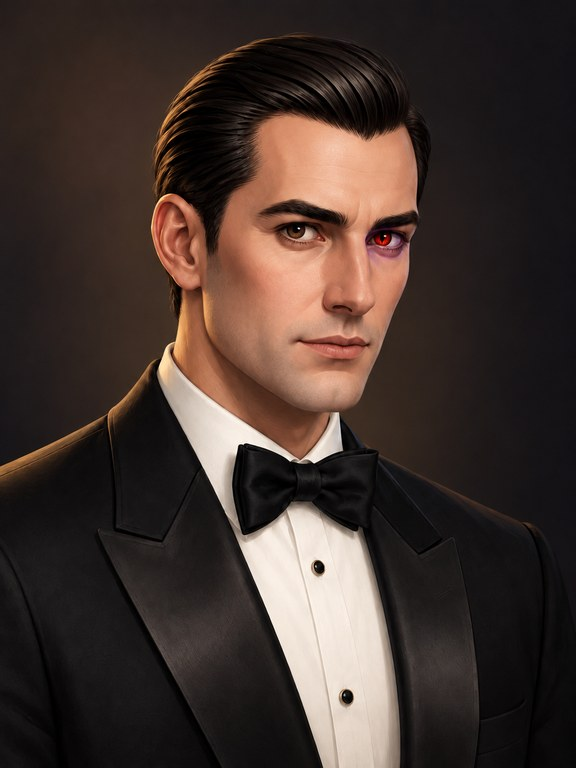
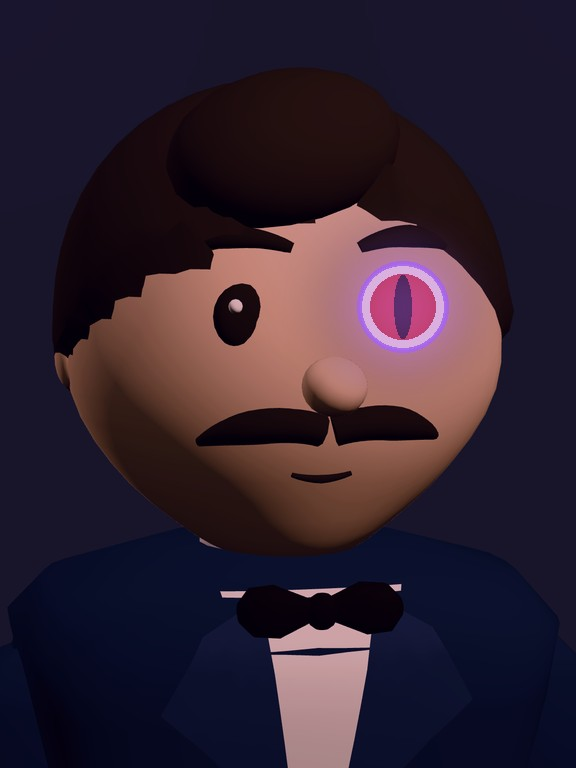
Grounded movement (cadence from distance + stride) and model-rendered portraits
- characterView.js: the in-place Walk clip's phase now advances by distance
  travelled / stride length (read from the GLB extras, fallback in
  characters.js) instead of a speed-scaled playback rate, so the planted foot
  moves backward at exactly the ground speed at any speed and never slides.
  Idle<->Walk cross-fade, teleport guard, debug() hook for tests.
- characters.js: modelHeight 1.66, strideLength fallback 1.083.
- tools/char-pipeline/walk_check.mjs: drives short/long walks, turns, an
  interrupted command and a doorway crossing from the real game and verifies
  stride in use, phase-vs-distance error (0), mesh-vs-mover offset (0), no
  console errors; records a webm and mid-walk frames.
- Portraits are now rendered FROM THE MODEL (portrait.mjs + portrait_post.py):
  victor.jpg (normal) and victor-possessed.jpg (cold violet wash, vignette,
  glowing slit-pupil eye placed at the projected eye position). Same file
  names, so PORTRAIT_ART is unchanged and the public strip stays neutral.
  The painted portraits and the victor-model.jpg option are removed.
All three test suites pass.

Claude-Session: https://claude.ai/code/session_01VRTSDtZcviqajcXFs5yVa3

diff --git a/src/render/characterView.js b/src/render/characterView.js
@@ -60,8 +60,12 @@ export function createCharacterView(playerDef, cfg, scene) {
   const body = new THREE.Group();
   group.add(body);
 
-  // Model-animation state (used only when useModel).
+  // Model-animation state (used only when useModel). The walk clip is IN PLACE; its phase is driven
+  // by the distance the mover actually travelled divided by the clip's stride (metres per cycle,
+  // measured in Blender and carried in the GLB's extras), so the planted foot moves backward at
+  // exactly the ground speed and never slides — whatever the speed.
   let mixer = null, idleAction = null, walkAction = null, walkW = 0, prevX = null, prevZ = null;
+  let strideLength = outfit.strideLength || 1.0, walkDuration = 1;
   // Placeholder limbs (used only when !useModel).
   let arms = [], legs = [], skirt = null;
 
@@ -75,6 +79,7 @@ export function createCharacterView(playerDef, cfg, scene) {
     gltfLoader.load(outfit.model, (gltf) => {
       const root = gltf.scene;
       root.traverse(o => {
+        if (o.userData && typeof o.userData.strideLength === 'number') strideLength = o.userData.strideLength;
         if (!o.isMesh) return;
         o.frustumCulled = false;
         const flatten = (src) => {
@@ -92,7 +97,11 @@ export function createCharacterView(playerDef, cfg, scene) {
       const idle = gltf.animations.find(a => /idle/i.test(a.name)) || gltf.animations[0];
       const walk = gltf.animations.find(a => /walk/i.test(a.name)) || gltf.animations[1];
       if (idle) { idleAction = mixer.clipAction(idle); idleAction.play(); idleAction.setEffectiveWeight(1); }
-      if (walk) { walkAction = mixer.clipAction(walk); walkAction.play(); walkAction.setEffectiveWeight(0); }
+      if (walk) {
+        walkAction = mixer.clipAction(walk); walkAction.play(); walkAction.setEffectiveWeight(0);
+        walkAction.timeScale = 0;              // phase is advanced by distance in update(), not by time
+        walkDuration = walk.duration;
+      }
     }, undefined, (e) => console.warn('character model load failed:', outfit.model, e && e.message));
   } else {
     buildPlaceholder();
@@ -216,6 +225,10 @@ export function createCharacterView(playerDef, cfg, scene) {
     group,
     def: playerDef,
     outfit,
+    // Test/debug hook: what the animation is doing (stride in use, walk weight, walk phase 0..1).
+    debug() {
+      return { model: useModel, loaded: !!mixer, strideLength, walkDuration, walkW, walkPhase: walkAction ? walkAction.time / walkDuration : 0 };
+    },
     setActive(v) {
       active = v && !dead;
       marker.visible = active;
@@ -255,15 +268,17 @@ export function createCharacterView(playerDef, cfg, scene) {
       group.rotation.y = mover.heading;
 
       if (useModel) {
-        // Stride matched to actual ground speed; smooth cross-fade Idle <-> Walk.
+        // Walk phase from distance travelled / stride; smooth cross-fade Idle <-> Walk. A jump larger
+        // than half a stride in one frame is a teleport (restart / room placement), not a step.
         if (prevX === null) { prevX = mover.x; prevZ = mover.z; }
-        const speed = Math.hypot(mover.x - prevX, mover.z - prevZ) / Math.max(dt, 1e-4);
+        let dist = Math.hypot(mover.x - prevX, mover.z - prevZ);
         prevX = mover.x; prevZ = mover.z;
+        if (dist > strideLength * 0.5) dist = 0;
         const target = mover.walking ? 1 : 0;
-        walkW += (target - walkW) * Math.min(1, dt * 9);
+        walkW += (target - walkW) * Math.min(1, dt * 10);
         if (walkAction) {
           walkAction.setEffectiveWeight(walkW);
-          walkAction.timeScale = THREE.MathUtils.clamp(speed / cfg.player.speed, 0.5, 1.7);
+          if (dist > 0) walkAction.time = (walkAction.time + (dist / strideLength) * walkDuration) % walkDuration;
         }
         if (idleAction) idleAction.setEffectiveWeight(1 - walkW);
         if (mixer) mixer.update(dt);

diff --git a/tools/char-pipeline/preview_glb.html b/tools/char-pipeline/preview_glb.html
@@ -71,6 +71,10 @@ new GLTFLoader().load(src, (gltf) => {
   else if (view === 'tq') { cam.position.set(d * 0.42, box.min.y + h * 0.82, d * 0.52); cam.lookAt(0, box.min.y + h * 0.72, 0); cam.fov = 26; }
   else if (view === 'side') { cam.position.set(d * 0.7, box.min.y + h * 0.55, 0.0); cam.lookAt(0, cy, 0); cam.fov = 30; }
   else if (view === 'back') { cam.position.set(0, box.min.y + h * 0.8, -d * 0.62); cam.lookAt(0, box.min.y + h * 0.74, 0); cam.fov = 26; }
+  else if (view === 'portrait') {   // tight bust for the interface portrait (charcoal plate)
+    scene.background = new THREE.Color('#171b27');
+    cam.position.set(0.05, box.min.y + h * 0.86, 2.15); cam.lookAt(0, box.min.y + h * 0.80, 0); cam.fov = 24;
+  }
   else if (view === 'gamescale') {  // true in-game size: pitch 56°, distance 13, fov 42 (config.js)
     const pitch = THREE.MathUtils.degToRad(56), D = 13;
     cam.position.set(0, Math.sin(pitch) * D, Math.cos(pitch) * D); cam.lookAt(0, 0, 0); cam.fov = 42;
@@ -82,8 +86,17 @@ new GLTFLoader().load(src, (gltf) => {
   mixer = new THREE.AnimationMixer(root);
   const clip = gltf.animations.find(a => a.name === clipName) || gltf.animations[0];
   if (clip) { action = mixer.clipAction(clip); action.play(); if (q.get('t') !== 'play') { mixer.setTime(t); } }
+  // Optional: project model-space points (x,y,z;x,y,z ...) to CSS pixels — used to place the
+  // "possessed" eye effect on the portrait exactly over the rendered eye.
+  const proj = [];
+  root.updateMatrixWorld(true); cam.updateMatrixWorld(true);   // project() needs current matrices
+  for (const p of (q.get('points') || '').split(';').filter(Boolean)) {
+    const [x, y, z] = p.split(',').map(Number);
+    const w = new THREE.Vector3(x, y, z); root.localToWorld(w); w.project(cam);
+    proj.push({ x: +((w.x + 1) / 2 * innerWidth).toFixed(1), y: +((1 - w.y) / 2 * innerHeight).toFixed(1) });
+  }
   window.__info = { ok: true, clips: gltf.animations.map(a => ({ name: a.name, duration: +a.duration.toFixed(3) })), meshes, tris: Math.round(tris),
-    height: +size.y.toFixed(3), width: +size.x.toFixed(3), depth: +size.z.toFixed(3), minY: +box.min.y.toFixed(3), materials: Object.fromEntries(mats) };
+    height: +size.y.toFixed(3), width: +size.x.toFixed(3), depth: +size.z.toFixed(3), minY: +box.min.y.toFixed(3), materials: Object.fromEntries(mats), points: proj };
 }, undefined, (err) => { window.__info = { ok: false, error: String(err && err.message || err) }; });
 
 renderer.setAnimationLoop(() => { if (mixer && q.get('t') === 'play') mixer.update(clock.getDelta()); renderer.render(scene, cam); });

diff --git a/src/data/characters.js b/src/data/characters.js
@@ -24,7 +24,9 @@ export const outfits = {
   tuxedo: { name: 'Tuxedo with bow tie', body: 'male', jacket: '#15151a', trousers: '#15151a', shirt: '#f3f1ea', neckwear: 'bow', neckwearColor: '#15151a', lapels: '#3a3a44',
     // Real rounded 3D guest (glTF with Idle/Walk clips). When present, characterView.js loads this
     // instead of building the placeholder box figure. Only Victor has one for this first review.
-    model: 'assets/characters/victor.glb', modelHeight: 1.8 },
+    // modelHeight places the active marker; strideLength is a fallback — the GLB carries the
+    // measured value in its extras (tools/char-pipeline/make_victor.py prints it).
+    model: 'assets/characters/victor.glb', modelHeight: 1.66, strideLength: 1.083 },
   dinnerJacket: { name: 'White dinner jacket', body: 'male', jacket: '#ece5d4', trousers: '#15151a', shirt: '#f7f5ef', neckwear: 'bow', neckwearColor: '#15151a', lapels: '#d5ccb8' },
   // Women: elegant, modest period dresses (silhouette: aline / column / full).
   dressEmerald: { name: 'Emerald A-line gown', body: 'female', bodice: '#1f6b4a', skirt: '#1f6b4a', skirtStyle: 'aline', sleeves: 'long', sash: '#c9a86a' },

diff --git a/tools/char-pipeline/portrait_post.py b/tools/char-pipeline/portrait_post.py
@@ -1,0 +1,58 @@
+# Post-process the raw portrait render into the two interface portraits.
+#   python3 portrait_post.py shots/portrait-raw.png '[[xL,yL],[xR,yR]]' assets/portraits
+# normal:    crop to a 3:4 bust, 576x768, JPEG
+# possessed: the same crop with a cold violet wash, a faint vignette and one altered "weird" eye
+#            (red iris, slit pupil, violet ring) drawn over the RIGHT eye as rendered — the private
+#            possessed tell. The public strip never uses this file.
+import sys, json, math
+from PIL import Image, ImageDraw, ImageFilter, ImageEnhance, ImageOps
+
+src, eyes_json, out_dir = sys.argv[1], sys.argv[2], sys.argv[3]
+eyes = json.loads(eyes_json)
+im = Image.open(src).convert('RGB')
+W, H = im.size
+
+# --- framing: a 3:4 window centred on the eyes, head + shoulders ------------------------------
+ex = (eyes[0][0] + eyes[1][0]) / 2; ey = (eyes[0][1] + eyes[1][1]) / 2
+eye_gap = abs(eyes[1][0] - eyes[0][0])
+cw = min(W, int(eye_gap * 3.5)); ch = min(H, int(cw * 4 / 3))
+cx0 = int(ex - cw / 2); cy0 = int(ey - ch * 0.37)
+cx0 = max(0, min(W - cw, cx0)); cy0 = max(0, min(H - ch, cy0))
+box = (cx0, cy0, cx0 + cw, cy0 + ch)
+bust = im.crop(box).resize((576, 768), Image.LANCZOS)
+bust.save(f'{out_dir}/victor.jpg', quality=90)
+print(f'portrait normal: crop={box} -> {out_dir}/victor.jpg')
+
+# --- possessed variant ----------------------------------------------------------------------
+p = bust.copy()
+# cold, slightly desaturated wash shifted toward violet
+p = ImageEnhance.Color(p).enhance(0.72)
+p = ImageEnhance.Brightness(p).enhance(0.9)
+r, g, b = p.split()
+r = r.point(lambda v: min(255, int(v * 0.97 + 4)))
+g = g.point(lambda v: int(v * 0.90))
+b = b.point(lambda v: min(255, int(v * 1.08 + 10)))
+p = Image.merge('RGB', (r, g, b))
+# vignette
+vig = Image.new('L', p.size, 0)
+vd = ImageDraw.Draw(vig)
+vd.ellipse((-140, -120, p.width + 140, p.height + 200), fill=255)
+vig = vig.filter(ImageFilter.GaussianBlur(120))
+violet = Image.new('RGB', p.size, (52, 22, 84))
+p = Image.composite(p, Image.blend(p, violet, 0.55), vig)
+# the altered eye: over the eye on the viewer's right, sized from the eye gap
+sx = 576 / cw; sy = 768 / ch
+exr = (eyes[1][0] - cx0) * sx; eyr = (eyes[1][1] - cy0) * sy
+rad = eye_gap * sx * 0.19
+d = ImageDraw.Draw(p, 'RGBA')
+d.ellipse((exr - rad * 1.35, eyr - rad * 1.35, exr + rad * 1.35, eyr + rad * 1.35), fill=(255, 226, 226, 255))   # pale sclera
+d.ellipse((exr - rad * 1.05, eyr - rad * 1.05, exr + rad * 1.05, eyr + rad * 1.05), fill=(214, 46, 46, 255))    # red iris
+d.ellipse((exr - rad * 0.28, eyr - rad * 1.0, exr + rad * 0.28, eyr + rad * 1.0), fill=(28, 3, 8, 255))          # slit pupil
+d.ellipse((exr - rad * 1.45, eyr - rad * 1.45, exr + rad * 1.45, eyr + rad * 1.45), outline=(180, 107, 255, 230), width=max(2, int(rad * 0.16)))
+glow = Image.new('RGBA', p.size, (0, 0, 0, 0))
+gd = ImageDraw.Draw(glow)
+gd.ellipse((exr - rad * 2.4, eyr - rad * 2.4, exr + rad * 2.4, eyr + rad * 2.4), fill=(180, 107, 255, 110))
+glow = glow.filter(ImageFilter.GaussianBlur(rad * 0.9))
+p = Image.alpha_composite(p.convert('RGBA'), glow).convert('RGB')
+p.save(f'{out_dir}/victor-possessed.jpg', quality=90)
+print(f'portrait possessed: eye at ({exr:.0f},{eyr:.0f}) r={rad:.0f} -> {out_dir}/victor-possessed.jpg')

diff --git a/docs/CHARACTER_GUI_CHECKPOINT.md b/docs/CHARACTER_GUI_CHECKPOINT.md
@@ -112,7 +112,29 @@ Export path is derived from the repository root (`Path(__file__).resolve().paren
 hardcoded home directory.
 
 ## Completed increments
-- (none yet in this phase)
+1. `77cc0ca` — checkpoint doc, measured target spec, capture tool (`capture.mjs`), bpy helpers
+   (`victor_lib.py`), baseline gap analysis.
+2. Victor v2 model (`make_victor.py` rewrite, `preview_glb.{html,mjs}` previewer): designed skull +
+   hair cap with snapped hairline / part / quiff, tapered brows + moustache, lofted jacket with
+   conforming shirt V + peaked lapels, bow tie, capsule limbs with joint spheres, jointed rig, phased
+   walk, measured stride in GLB extras. 14,420 tris / 8 materials / 480 KB. Verified in the real game
+   at all 4 rotations (`shots/g6-r*-crop.png`, `shots/g6z-r0-crop.png`).
+   Iteration lessons: rotate parts about their OWN centre (an object-level rotation applied around
+   the world origin sent the quiff flying); thin panels need interior vertices projected onto the
+   curved chest or they sag behind it and vanish; the hair cap must receive the same shapers as the
+   skull or the skull pokes through; brows whose inner ends dip read as angry.
+3. Movement integration (`src/render/characterView.js`): the walk clip's phase is advanced by
+   distance travelled ÷ stride (stride read from the GLB extras, fallback in `characters.js`), so the
+   planted foot moves backward at exactly the ground speed at any speed; Idle↔Walk cross-fade
+   (~0.25 s game time); teleport guard; `view.debug()` hook. `tools/char-pipeline/walk_check.mjs`
+   drives short/long walks, turns, an interrupt and a doorway crossing from the real game and
+   verifies: stride in use 1.0832, phase-vs-distance error 0, mesh-vs-mover offset 0, no errors.
+   Headless SwiftShader runs ~3 fps, so wall-clock settle times there are not representative.
+4. Portraits from the model (`tools/char-pipeline/portrait.mjs` + `portrait_post.py`): a bust of the
+   actual GLB with the game's lighting/Lambert look → `assets/portraits/victor.jpg` (normal) and
+   `victor-possessed.jpg` (cold violet wash, vignette, glowing slit-pupil right eye drawn at the
+   projected eye position). Same filenames as before → `PORTRAIT_ART` unchanged; the public strip
+   still always requests the normal look. The painted portraits are replaced (owner-authorised).
 
 ## Failed attempts / lessons (keep — they save the next session time)
 - v1: tilting the head up to "catch" the camera exposed the bald crown → shiny bald egg from above.
